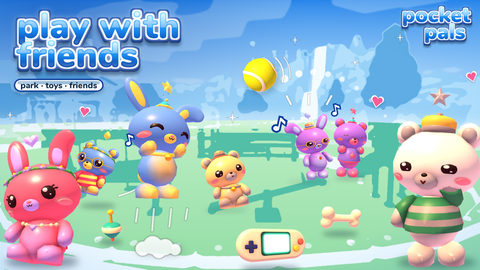
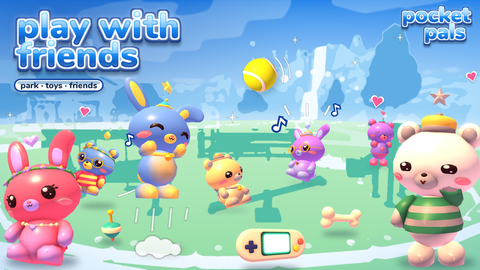
art(store): T5 see-saw riders face each other
Spencer: the see-saw riders should sit facing each other, and the pal to
the right of the right seat looked like part of that pair.

- New captures: the orange Bear (turned right) and the lilac Bunny
  (turned left), both in the game's sit pose, now on the low and high
  seats.
- The stretching purple Bear is smaller (0.40) and further back by the
  slide.

Changed region(s): [[0.5938, 0.3556, 0.8438, 0.6815], [0.4062, 0.5333, 0.5312, 0.7704]]

diff --git a/artifacts/store-listing/v2-new-look/set/build_set.py b/artifacts/store-listing/v2-new-look/set/build_set.py
@@ -633,16 +633,16 @@ def t5():
 
     # ---- on the equipment, far to near
     # stretching by the slide and the ball mat
-    pal("A-C7c-stretch", 0.50, 1102, 486, rot=-4, ry=8, sh=60)
+    pal("A-C7c-stretch", 0.40, 1185, 455, rot=-4, ry=6, sh=50)  # further back, apart from the see-saw pair
     # sitting on the swing seat, mid-swing
     x, y = pal("A-C7a-sit", 0.52, 410, 540, rot=7, ry=1, sh=0, flip=True)
     bi.contact(c, x + 10, P(0, 560)[1], 70, 10, alpha=80, blur=10)
     swish(c, x - 10, y - 40, 330, 100, 125, width=8)
     swish(c, x - 10, y - 40, 370, 104, 122, width=6)
     swish(c, x + 10, y - 40, 330, 52, 76, width=8)
-    # see-saw: Bear sitting on the low seat, Bunny wiggling on the high end
-    pal("A-F7b-sit", 0.50, 764, 574, rot=5, ry=6, sh=50)
-    x, y = pal("A-J3-wiggle", 0.50, 990, 498, rot=-7, ry=5, sh=40, flip=True)
+    # see-saw: both riders sit on their seats, turned to face each other
+    pal("A-F7b-ride", 0.58, 768, 574, rot=6, ry=6, sh=50)
+    x, y = pal("A-J3-ride", 0.55, 985, 502, rot=-8, ry=5, sh=40)
     for dx, a in ((-70, -28), (0, 0), (70, 28)):
         layer = Image.new("RGBA", c.size, (0, 0, 0, 0))
         t = np.radians(a)

diff --git a/artifacts/store-listing/v2-new-look/captures/cutout.py b/artifacts/store-listing/v2-new-look/captures/cutout.py
@@ -90,6 +90,9 @@ SHOTS = {
     "A-J3-wiggle": ("A-J3-wiggle-black.jpg", "A-J3-wiggle-grey.jpg"),
     "A-C7a-sit": ("A-C7a-sit-black.jpg", "A-C7a-sit-grey.jpg"),
     "A-J2-jump": ("A-J2-jump-black.jpg", "A-J2-jump-grey.jpg"),
+    # See-saw riders, sitting and turned to face each other (F7b faces right, J3 faces left).
+    "A-F7b-ride": ("A-F7b-ride-black.jpg", "A-F7b-ride-grey.jpg"),
+    "A-J3-ride": ("A-J3-ride-black.jpg", "A-J3-ride-grey.jpg"),
 }
 
 

diff --git a/TODO.md b/TODO.md
@@ -36,7 +36,7 @@ Recommended order: bug fixes, then level rewards + gated items + medals, then Ga
 ## Now working on
 
 - [x] **Cute Bear + Aero faceplates LIVE (2026-11-21, v1033, rollback v1032).** Eyes conformed to the head after Spencer saw clipping; beta first, then "Publish live now". Servers restarted (200 OK).
-- [ ] **Dewdrop store art (2026-11-21, Opus + Fable).** Captures S1-S9 done (`v2-new-look/captures/`); icons A, B, C built and sent (`v2-new-look/icons/`, Fable picks A). Spencer's follow-up: icon D, C's idea with the Bear holding his deck out to camera, higher, face clear (capture S10, `icon_d` in build_icons.py), sent 2026-11-21. Then E (whole scene through a fisheye, Rose Bunny back on the right, Sky; new close Bunny capture S11) and F (pals and sky flat, only the deck bulges, tighter frame), both sent 2026-11-21. Then G (F framed like A: big heads, deck off the bottom edge), sent 2026-11-21. Then H (A's own poses and positions, Bear 60 px higher, deck tilted 9 degrees with a drawn hero screen from the BallThemes colours; `deck-hero-screen.png`), sent 2026-11-21. Then I (H with a cute pastel deck screen, three big balls and no type, plus a glossy Aero lowercase "pocket pals" wordmark top left), sent 2026-11-21. Then J (I with the real Bubbles ball theme on the deck and a bigger wordmark overlapping the pals), sent 2026-11-21. Spencer: "J is good"; J v2 makes the title bigger with a navy ring and extrusion, colours each line from its own letters (the l in pals was cut), and steps pals right. Spencer picked J with the title a tiny bit smaller (650 px), 2026-11-21. **Icon J is LIVE** (uploaded in Creator Hub on his "lock it in", moderation Completed, served image matches the file). Thumbnail 1 / Ad A (line-up) and Ad C (sky hop) built in J's look, 1920x1080 (`v2-new-look/thumbs/`, new full-body captures S12-S14), Fable reviewed, sent 2026-11-21. Spencer: those were too sparse ("what are these?") and asked to redo ALL thumbnails and the ads. Fable brief `v2-new-look/FEATURE-SET-BRIEF.md`; built 7 thumbnails + 3 ads in `v2-new-look/set/` (build_set.py, all names/prices/counts read from catalogues; new captures: 4 eggs, 6 toys, 4 dye jars, Feast, 3 dressed Bears, Bunny with bow tail, 4 real frozen decks). Fable-reviewed, sent 2026-11-21. Waiting on Spencer: OK to swap the 6 live thumbnails for T1-T7 (old set saved in `live-before/`), and his go on ad spend ($5/day x 7). Open: T5 has no real park plate; boards rarely hold 9+ balls so T3/ad-B show a size-V big merge instead. Round 2 (Spencer): T3/ad-B deck centred and higher; T6 decks up with the Bear peeking behind; T1/ad-A top right filled with a cracked Toy Egg and toys; T5 Bunny clearly jumping (new capture CJ); charms shown (captures C1 star, C7a gold leaf, C7c pink star, C13 lilac heart, via secondary dye). Sent 2026-11-21. Round 3 (Fable): the Bear peeks over the deck, paws on its top edge (T3/ad-B, T6), plus a composition pass on all ten. Sent 2026-11-21. Optional: a Bunny peek capture so T3 and T6 don't both use the Bear. Round 4 (Fable): T1/ad-A top filled by a centred egg burst of all toys and jars; T3/ad-B fuller with the Bunny, flying balls and a zigzag ladder; T6 rebalanced with the decks fanned evenly and themes top right. Sent 2026-11-21. T1: tagline "merge · hatch · dress up · train", chips clothes/colors/toys/decks/stats/& more (no numbers), Bunny moved so the Bear's cheek no longer covers her eye. T1 heroes recaptured: the Bear adds a Forest Stripy Tee (B1); the Bunny wears a Flower Crown, Lash Eyes and Blush with beads, a bow tail and a lilac heart charm (B2). The Bunny rig takes no EarPiercing or Wrist items (Little Hoops and Friendship Bands don't attach). T5 redone (Fable) on a real Studio capture of the Pet Park (`captures/raw/park-plate.jpg`): seven pals on and around the swing, see-saw and slide, a jumping Bunny, a flying ball and toys. Sent 2026-11-21. T5 round 2: the park plate becomes a flat sky/mint silhouette (park_silhouette in build_set.py); seven distinct pals with new captures J2 (Tide Bunny jumping) and J3 (Iris Bunny with specs). T5 round 3: animated pals from the game's own sit pose and idle beats (A-* captures: three sitting, a wave, a stretch, a wiggle); the jumping Bunny recaptured without the foot-clipping hop offsets so her feet are whole. Waiting on Spencer's pick, then thumbnail 1 / Ad A and Ad C; ads $5/day x 7 for A and C, nothing spent. Spencer: "ship it now", captures with the cute Bear, Fable picks what to feature; make icons A, B and C, then show him; Frutiger Aero faceplates for the deck in the art (real in-game plates, so the ads stay honest). In flight: architect review of the Bear ship plan (export, Open Cloud upload, LoadAsset, rig rebuild, Bunny kept identical); Fable on 3 Aero plates and the shot list. Refs: `artifacts/store-listing/v2-new-look/refs/REFERENCES.md` (Chao Garden mods, Aero wallpapers and devices; nothing downloaded). Decisions: lowercase wordmark OK; ads $5/day for one week (nothing spent until the creative is ready and he says go); game stays 16+ limited until "100 hep", so the ad audience is 17+; ad numbers read through his Chrome, no API key needed.
+- [ ] **Dewdrop store art (2026-11-21, Opus + Fable).** Captures S1-S9 done (`v2-new-look/captures/`); icons A, B, C built and sent (`v2-new-look/icons/`, Fable picks A). Spencer's follow-up: icon D, C's idea with the Bear holding his deck out to camera, higher, face clear (capture S10, `icon_d` in build_icons.py), sent 2026-11-21. Then E (whole scene through a fisheye, Rose Bunny back on the right, Sky; new close Bunny capture S11) and F (pals and sky flat, only the deck bulges, tighter frame), both sent 2026-11-21. Then G (F framed like A: big heads, deck off the bottom edge), sent 2026-11-21. Then H (A's own poses and positions, Bear 60 px higher, deck tilted 9 degrees with a drawn hero screen from the BallThemes colours; `deck-hero-screen.png`), sent 2026-11-21. Then I (H with a cute pastel deck screen, three big balls and no type, plus a glossy Aero lowercase "pocket pals" wordmark top left), sent 2026-11-21. Then J (I with the real Bubbles ball theme on the deck and a bigger wordmark overlapping the pals), sent 2026-11-21. Spencer: "J is good"; J v2 makes the title bigger with a navy ring and extrusion, colours each line from its own letters (the l in pals was cut), and steps pals right. Spencer picked J with the title a tiny bit smaller (650 px), 2026-11-21. **Icon J is LIVE** (uploaded in Creator Hub on his "lock it in", moderation Completed, served image matches the file). Thumbnail 1 / Ad A (line-up) and Ad C (sky hop) built in J's look, 1920x1080 (`v2-new-look/thumbs/`, new full-body captures S12-S14), Fable reviewed, sent 2026-11-21. Spencer: those were too sparse ("what are these?") and asked to redo ALL thumbnails and the ads. Fable brief `v2-new-look/FEATURE-SET-BRIEF.md`; built 7 thumbnails + 3 ads in `v2-new-look/set/` (build_set.py, all names/prices/counts read from catalogues; new captures: 4 eggs, 6 toys, 4 dye jars, Feast, 3 dressed Bears, Bunny with bow tail, 4 real frozen decks). Fable-reviewed, sent 2026-11-21. Waiting on Spencer: OK to swap the 6 live thumbnails for T1-T7 (old set saved in `live-before/`), and his go on ad spend ($5/day x 7). Open: T5 has no real park plate; boards rarely hold 9+ balls so T3/ad-B show a size-V big merge instead. Round 2 (Spencer): T3/ad-B deck centred and higher; T6 decks up with the Bear peeking behind; T1/ad-A top right filled with a cracked Toy Egg and toys; T5 Bunny clearly jumping (new capture CJ); charms shown (captures C1 star, C7a gold leaf, C7c pink star, C13 lilac heart, via secondary dye). Sent 2026-11-21. Round 3 (Fable): the Bear peeks over the deck, paws on its top edge (T3/ad-B, T6), plus a composition pass on all ten. Sent 2026-11-21. Optional: a Bunny peek capture so T3 and T6 don't both use the Bear. Round 4 (Fable): T1/ad-A top filled by a centred egg burst of all toys and jars; T3/ad-B fuller with the Bunny, flying balls and a zigzag ladder; T6 rebalanced with the decks fanned evenly and themes top right. Sent 2026-11-21. T1: tagline "merge · hatch · dress up · train", chips clothes/colors/toys/decks/stats/& more (no numbers), Bunny moved so the Bear's cheek no longer covers her eye. T1 heroes recaptured: the Bear adds a Forest Stripy Tee (B1); the Bunny wears a Flower Crown, Lash Eyes and Blush with beads, a bow tail and a lilac heart charm (B2). The Bunny rig takes no EarPiercing or Wrist items (Little Hoops and Friendship Bands don't attach). T5 redone (Fable) on a real Studio capture of the Pet Park (`captures/raw/park-plate.jpg`): seven pals on and around the swing, see-saw and slide, a jumping Bunny, a flying ball and toys. Sent 2026-11-21. T5 round 2: the park plate becomes a flat sky/mint silhouette (park_silhouette in build_set.py); seven distinct pals with new captures J2 (Tide Bunny jumping) and J3 (Iris Bunny with specs). T5 round 3: animated pals from the game's own sit pose and idle beats (A-* captures: three sitting, a wave, a stretch, a wiggle); the jumping Bunny recaptured without the foot-clipping hop offsets so her feet are whole. See-saw riders recaptured sitting and turned to face each other (A-F7b-ride, A-J3-ride); the purple Bear is smaller and further back so he doesn't read as part of that pair. Waiting on Spencer's pick, then thumbnail 1 / Ad A and Ad C; ads $5/day x 7 for A and C, nothing spent. Spencer: "ship it now", captures with the cute Bear, Fable picks what to feature; make icons A, B and C, then show him; Frutiger Aero faceplates for the deck in the art (real in-game plates, so the ads stay honest). In flight: architect review of the Bear ship plan (export, Open Cloud upload, LoadAsset, rig rebuild, Bunny kept identical); Fable on 3 Aero plates and the shot list. Refs: `artifacts/store-listing/v2-new-look/refs/REFERENCES.md` (Chao Garden mods, Aero wallpapers and devices; nothing downloaded). Decisions: lowercase wordmark OK; ads $5/day for one week (nothing spent until the creative is ready and he says go); game stays 16+ limited until "100 hep", so the ad audience is 17+; ad numbers read through his Chrome, no API key needed.
   - Bear rig part (Sol, 2026-11-21): bear-v2.fbx uploaded (Model 113193601678263, eye Decal 79423116883955), manifests, BearRigDefinition, PetAssets Bear template and the 21 eye/eyewear items rebuilt; Bunny snapshot identical (hash 2734834761 before and after). Studio Edit carries it (Rojo plugin was disconnected, pushed by hash-checked source edits); nothing committed, saved or published. Evidence: artifacts/v2-bear-ship-2026-11-21/.
 
 - [x] **v2 live (2026-11-20, Opus).** Published runtime aeae2d9 to the live place after Spencer's beta pass; translations synced (226/5); test content stripped; branch fast-forwarded to main. Servers restarted (Open Cloud 200 OK). Next: watch the first live saves (stats, pouch, Bunny adopt) in the logs.
